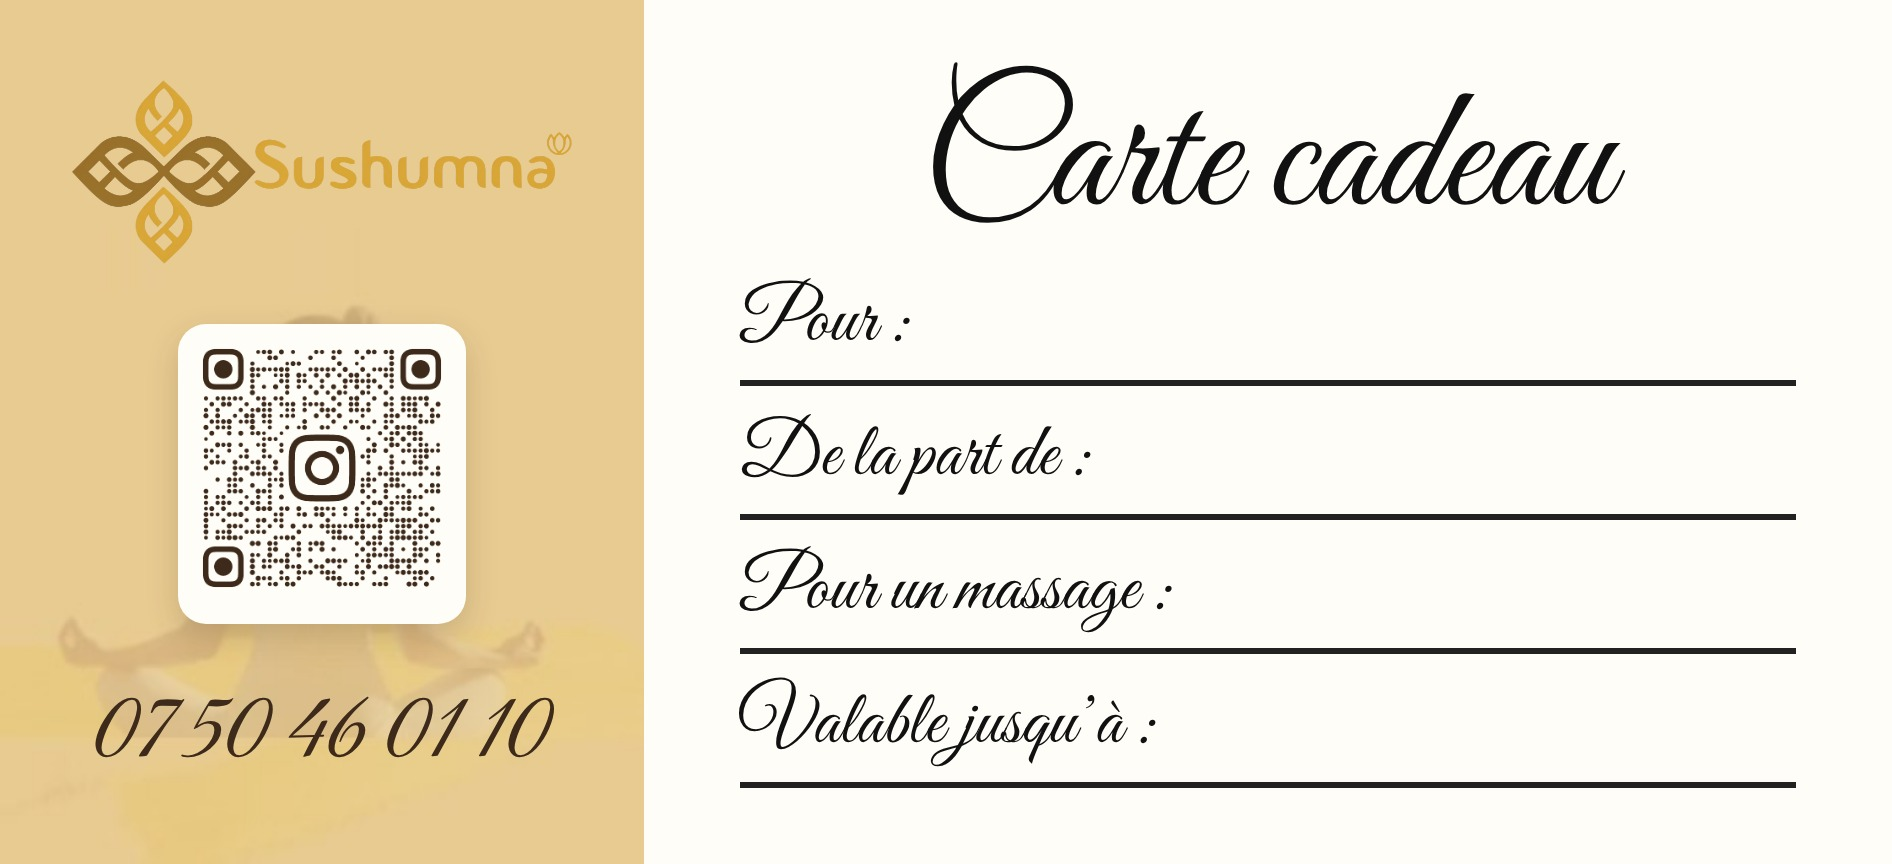
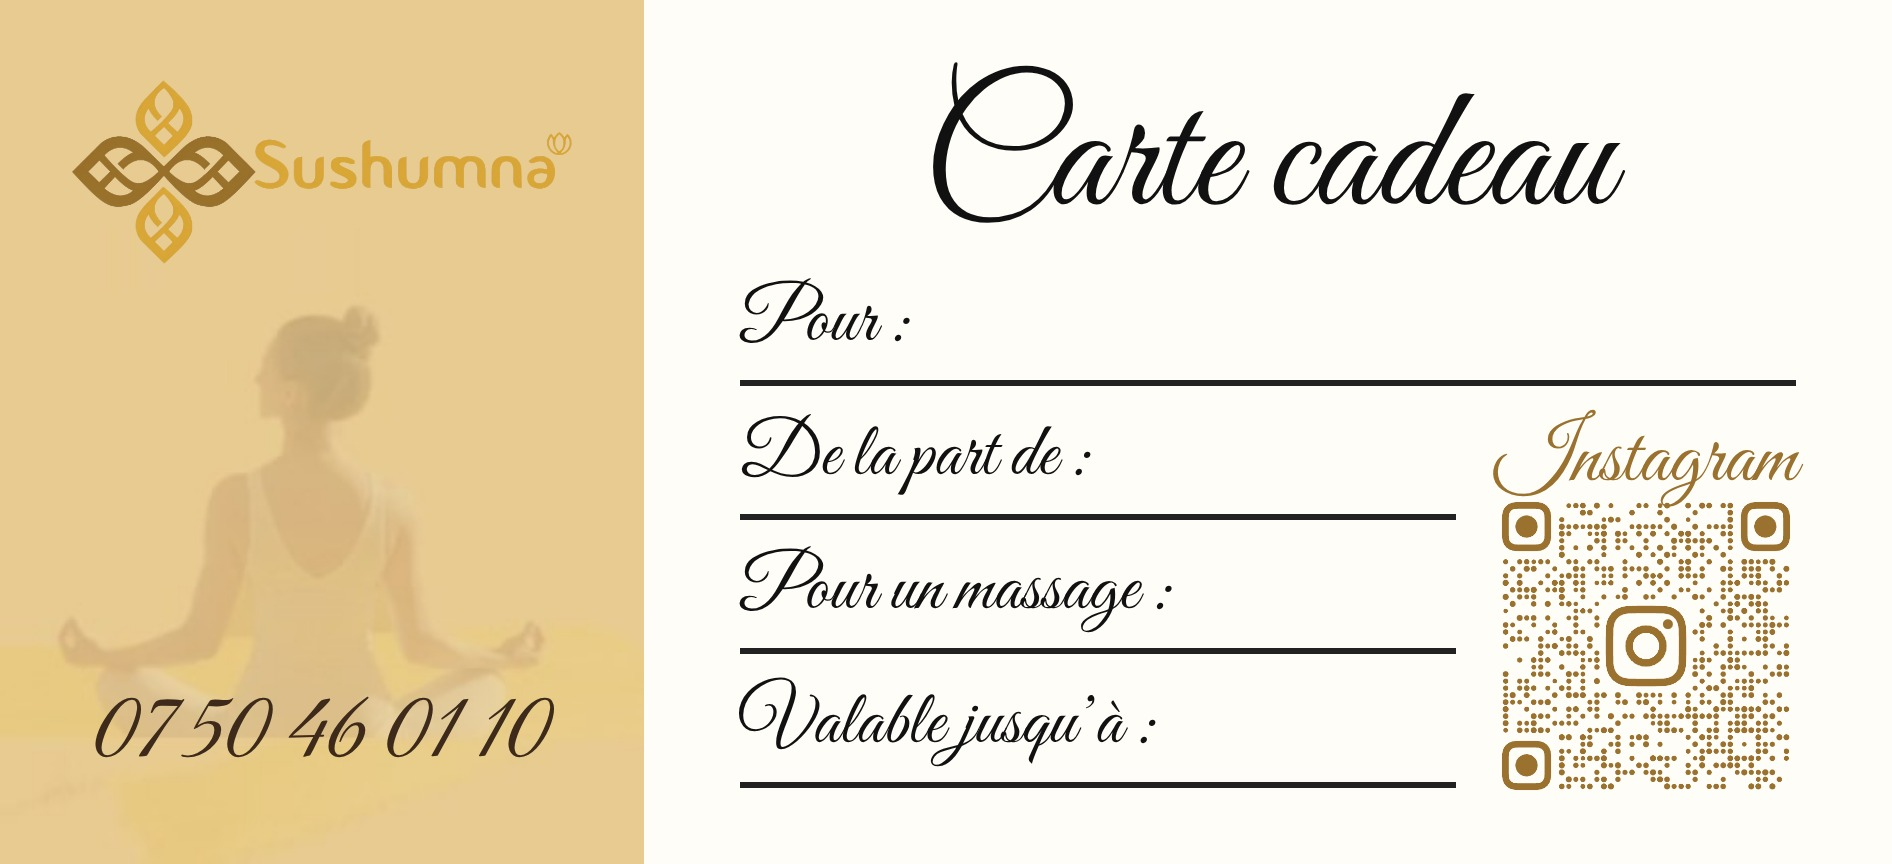
Carte cadeau : QR code Instagram doré en bas à droite, comme l'ancienne carte
Claude-Session: https://claude.ai/code/session_01FhKW6d7NffjTyYvYf6zG3G

Changed region(s): [[0.7796, 0.4688, 0.9667, 0.9375], [0.0936, 0.375, 0.2495, 0.75]]

diff --git a/graphisme/sources/06-carte-cadeau.html b/graphisme/sources/06-carte-cadeau.html
@@ -25,7 +25,11 @@ body{width:var(--w);height:var(--h);overflow:hidden;background:var(--creme);colo
 .qr{background:var(--creme);border-radius:14px;padding:10px;box-shadow:0 6px 16px rgba(61,42,27,.18)}
 .qr img{width:124px;height:124px}
 .tel{font-family:var(--script);font-size:50px;color:var(--brun);line-height:1}
-.droite{width:66%;display:flex;flex-direction:column;justify-content:space-between;padding:38px 48px;text-align:center}
+.droite{position:relative;width:66%;display:flex;flex-direction:column;justify-content:space-between;padding:38px 48px;text-align:center}
+.court{width:calc(100% - 170px)}
+.insta{position:absolute;right:48px;bottom:34px;width:150px;display:flex;flex-direction:column;align-items:center;margin:0}
+.insta span{font-family:var(--script);font-size:42px;line-height:1;color:var(--brun-logo);margin-bottom:-4px}
+.insta img{width:150px;height:150px}
 .droite h1{font-family:var(--script);font-weight:400;font-size:88px;line-height:1;margin:0;color:#111}
 .ligne{font-family:var(--script);font-size:38px;color:#111;margin:0;padding-bottom:4px;border-bottom:3px solid #222;line-height:1.3;text-align:left}</style>
 </head>
@@ -48,15 +52,15 @@ body{width:var(--w);height:var(--h);overflow:hidden;background:var(--creme);colo
 </svg>
 <div class="page"><div class="gauche">
   <img src="../assets/logo-hd.png" alt="Sushumna">
-  <div class="qr"><img src="../assets/qr-instagram.png" alt="QR code Instagram"></div>
   <span class="tel">07 50 46 01 10</span>
 </div>
 <div class="droite">
   <h1>Carte cadeau</h1>
   <p class="ligne">Pour :</p>
-  <p class="ligne">De la part de :</p>
-  <p class="ligne">Pour un massage :</p>
-  <p class="ligne">Valable jusqu’à :</p>
+  <p class="ligne court">De la part de :</p>
+  <p class="ligne court">Pour un massage :</p>
+  <p class="ligne court">Valable jusqu’à :</p>
+  <div class="insta"><span>Instagram</span><img src="../assets/qr-instagram-or.png" alt="QR code Instagram"></div>
 </div></div>
 </body>
 </html>

diff --git a/graphisme/generer.js b/graphisme/generer.js
@@ -173,20 +173,24 @@ PAGES.push({
 .qr{background:var(--creme);border-radius:14px;padding:10px;box-shadow:0 6px 16px rgba(61,42,27,.18)}
 .qr img{width:124px;height:124px}
 .tel{font-family:var(--script);font-size:50px;color:var(--brun);line-height:1}
-.droite{width:66%;display:flex;flex-direction:column;justify-content:space-between;padding:38px 48px;text-align:center}
+.droite{position:relative;width:66%;display:flex;flex-direction:column;justify-content:space-between;padding:38px 48px;text-align:center}
+.court{width:calc(100% - 170px)}
+.insta{position:absolute;right:48px;bottom:34px;width:150px;display:flex;flex-direction:column;align-items:center;margin:0}
+.insta span{font-family:var(--script);font-size:42px;line-height:1;color:var(--brun-logo);margin-bottom:-4px}
+.insta img{width:150px;height:150px}
 .droite h1{font-family:var(--script);font-weight:400;font-size:88px;line-height:1;margin:0;color:#111}
 .ligne{font-family:var(--script);font-size:38px;color:#111;margin:0;padding-bottom:4px;border-bottom:3px solid #222;line-height:1.3;text-align:left}`,
     body: `<div class="gauche">
   <img src="../assets/logo-hd.png" alt="Sushumna">
-  <div class="qr"><img src="../assets/qr-instagram.png" alt="QR code Instagram"></div>
   <span class="tel">${CONTACT.tel}</span>
 </div>
 <div class="droite">
   <h1>Carte cadeau</h1>
   <p class="ligne">Pour :</p>
-  <p class="ligne">De la part de :</p>
-  <p class="ligne">Pour un massage :</p>
-  <p class="ligne">Valable jusqu’à :</p>
+  <p class="ligne court">De la part de :</p>
+  <p class="ligne court">Pour un massage :</p>
+  <p class="ligne court">Valable jusqu’à :</p>
+  <div class="insta"><span>Instagram</span><img src="../assets/qr-instagram-or.png" alt="QR code Instagram"></div>
 </div>` }),
 });
 
